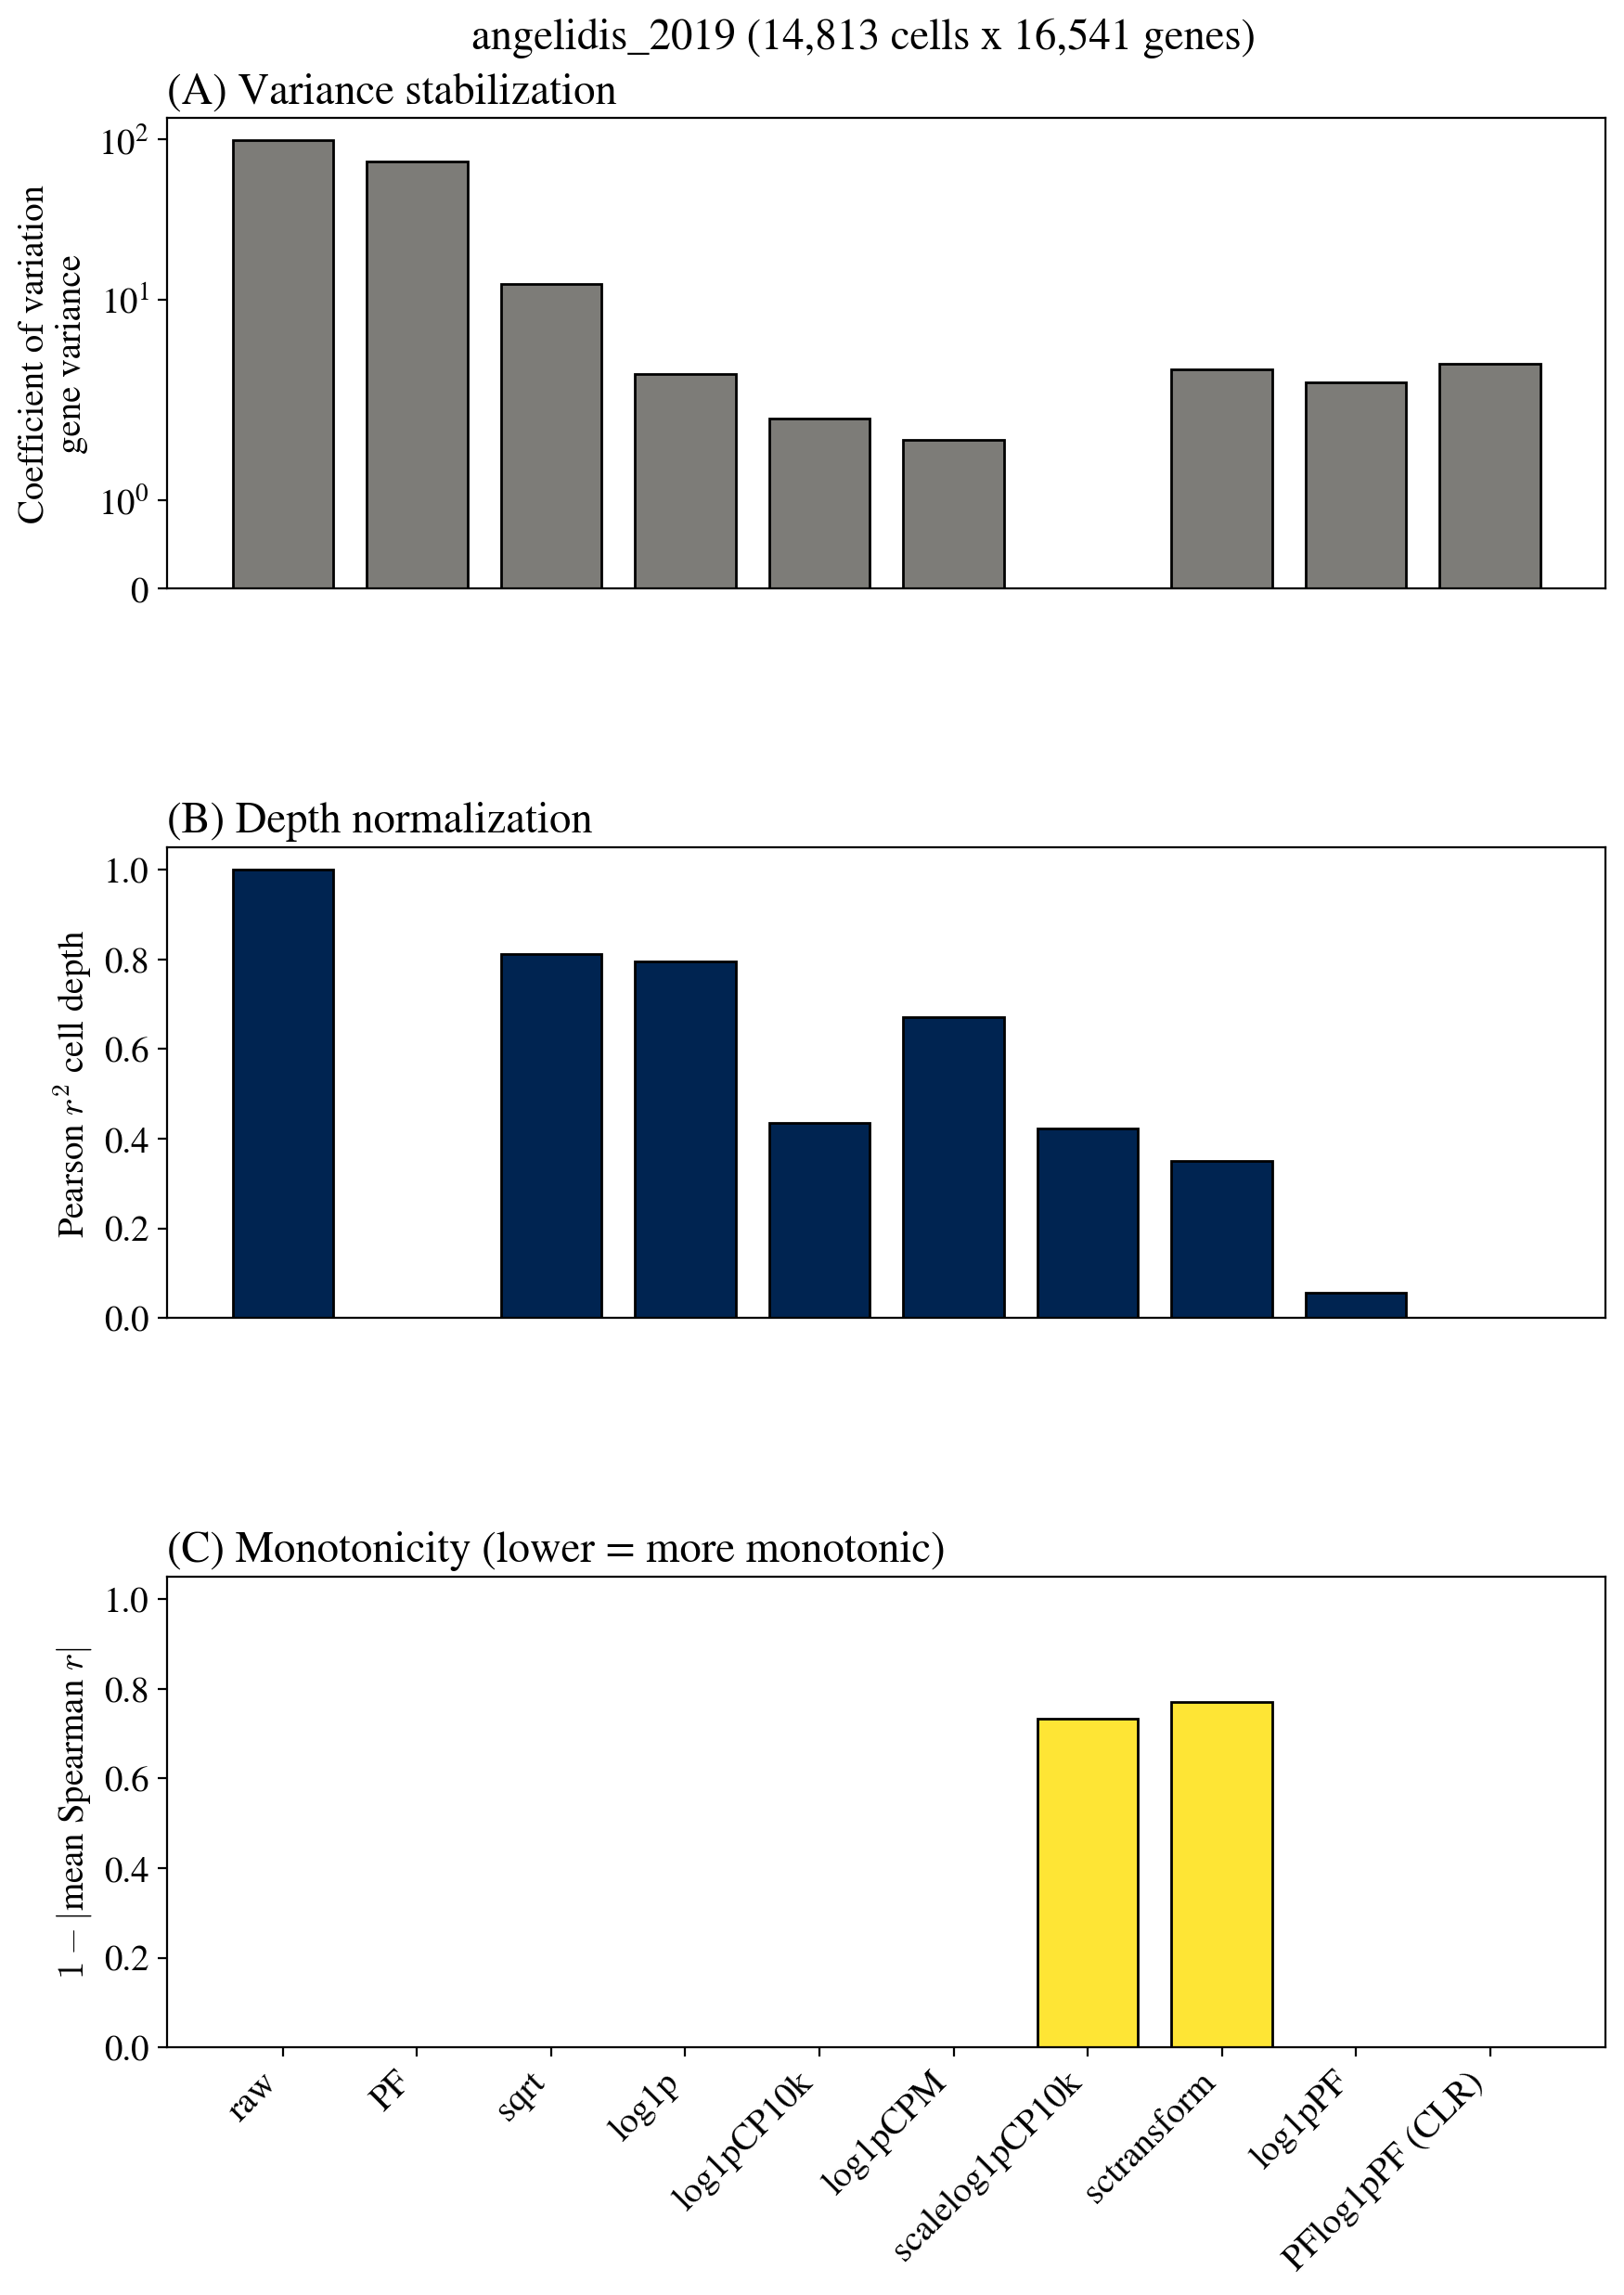
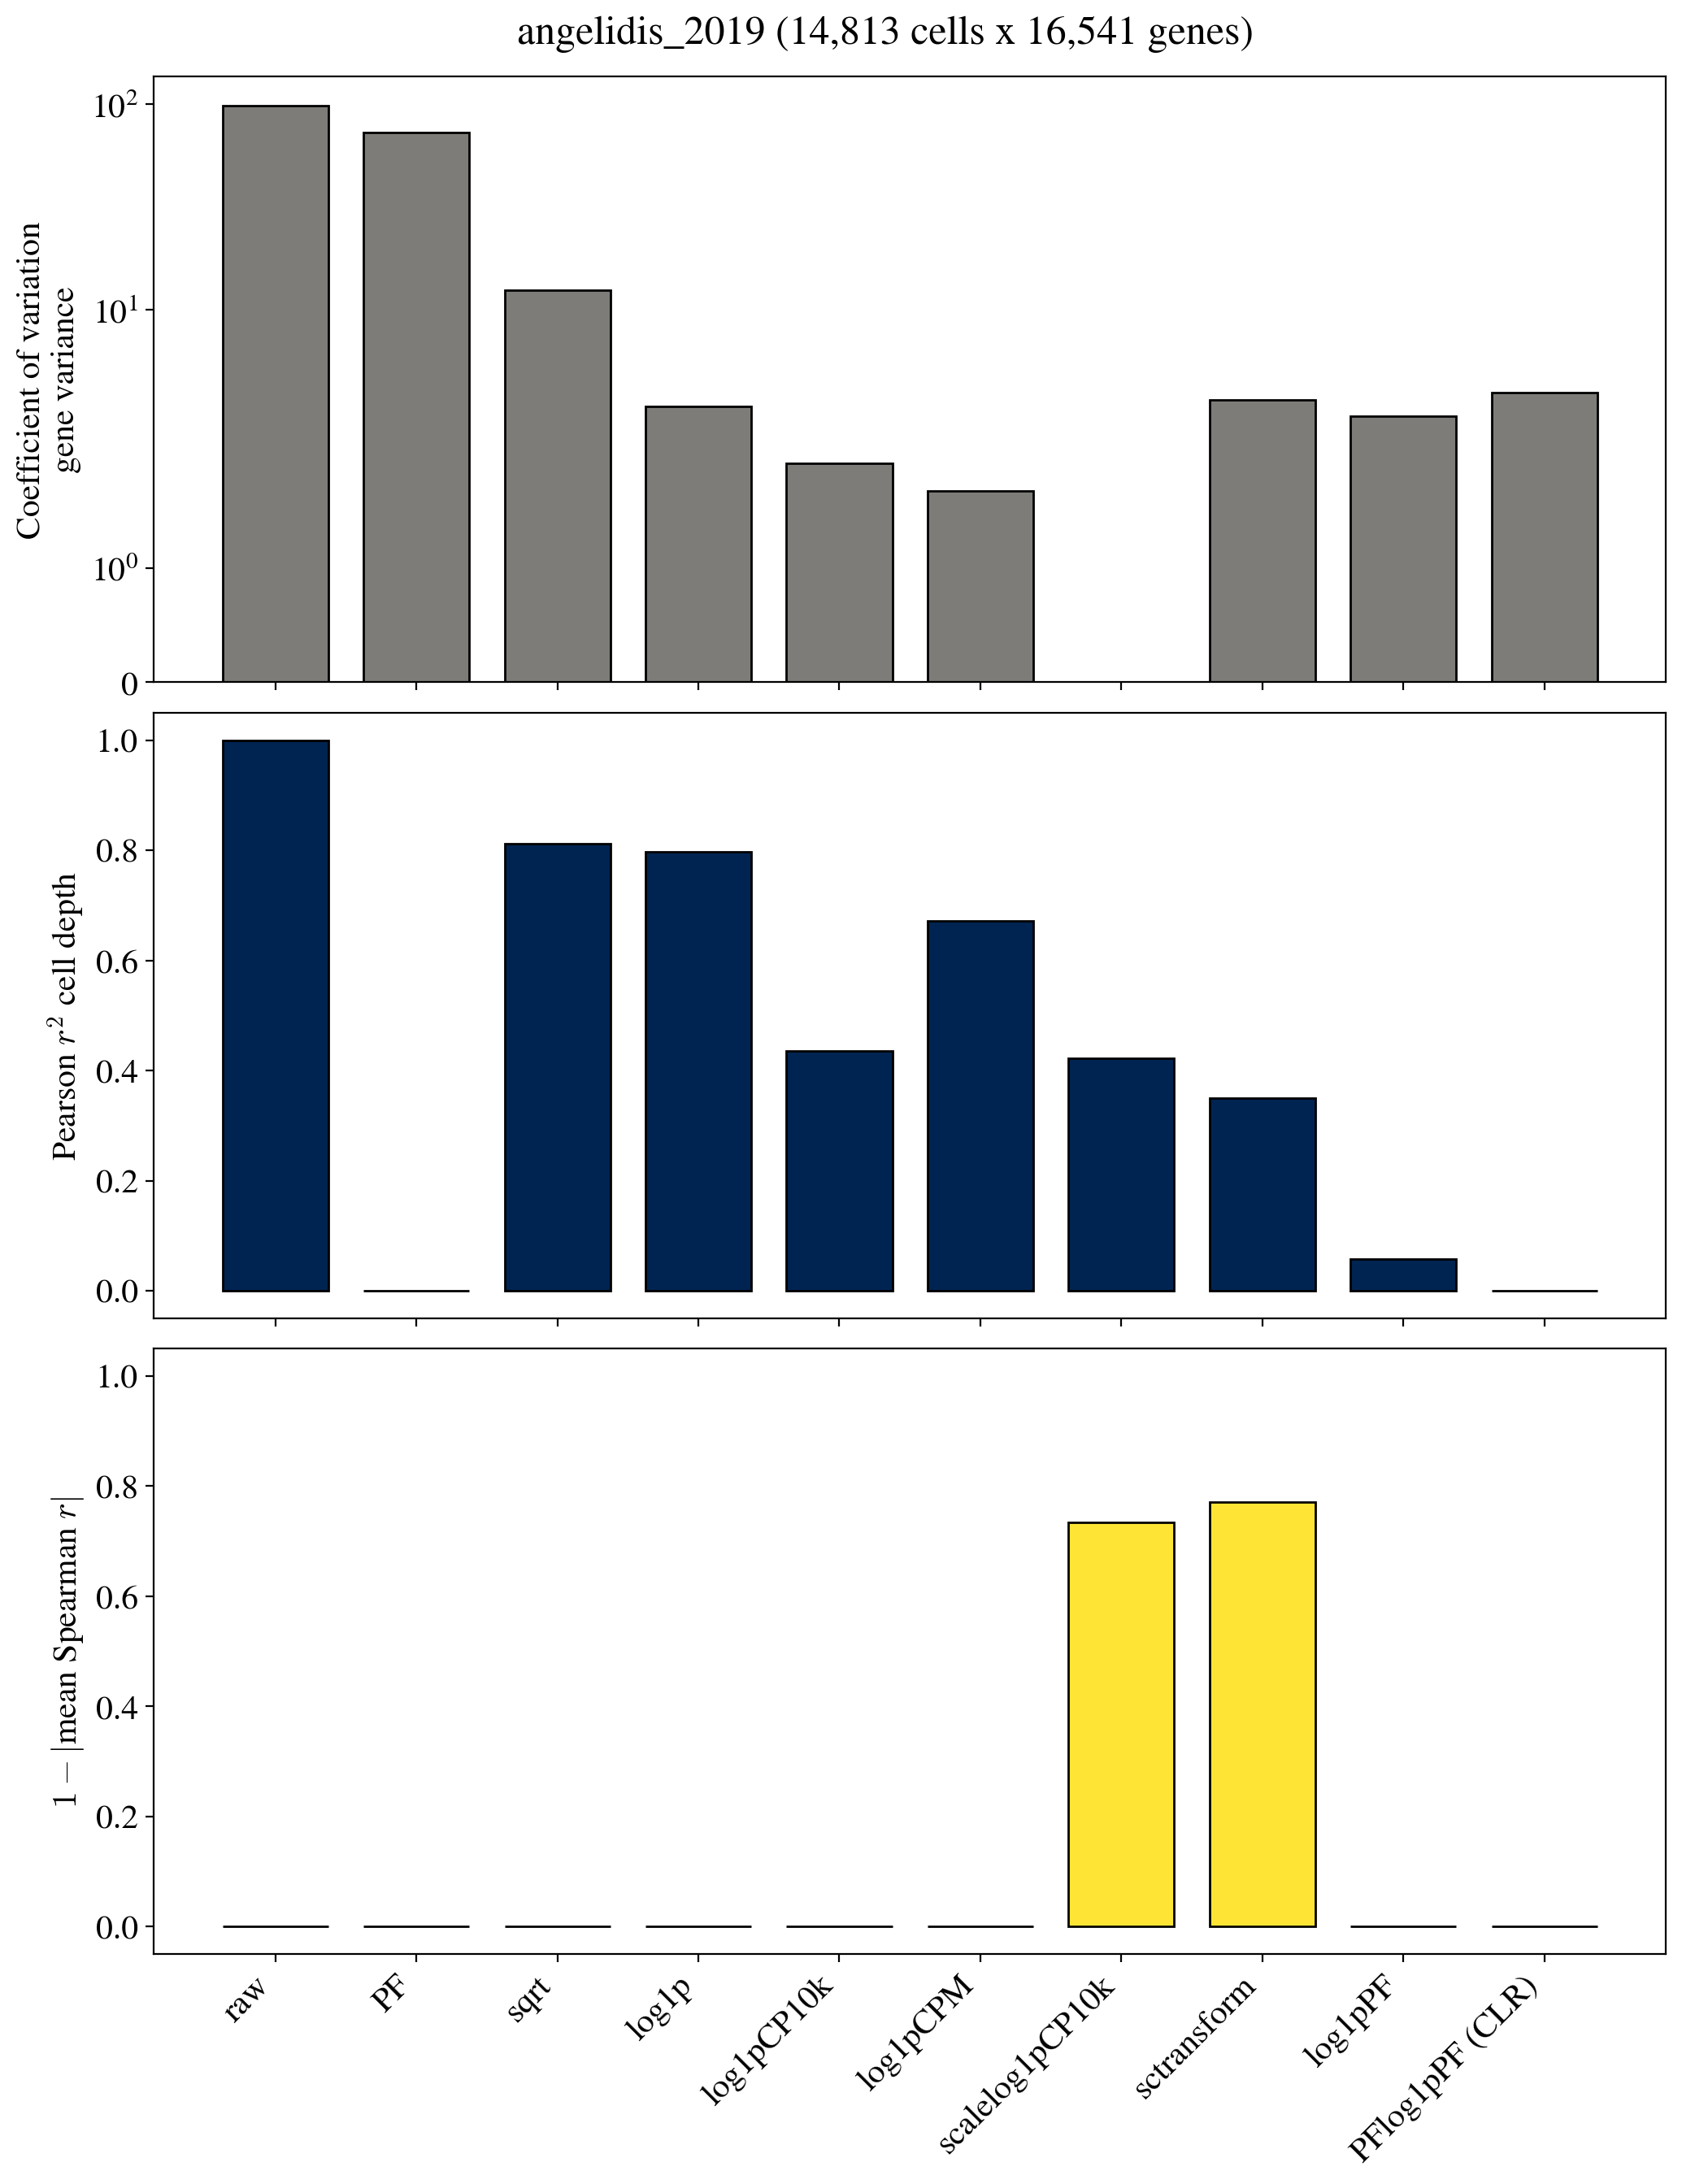
restyle plot_bar.py to match plot_summary.py layout
Per Sina's feedback: stack the three panels with shared x-axis (no hspace),
drop the (A)/(B)/(C) panel titles (those will live in the figure caption),
and bump figsize to (12, 15) so the angelidis bar plot ends up the same
vertical height as the across-dataset summary boxplot. Captions can place
them side-by-side without one squishing the other.

diff --git a/scripts/plot_bar.py b/scripts/plot_bar.py
@@ -2,10 +2,13 @@
 """3-panel bar plot of per-method metrics for a single dataset.
 
 Reads the per-dataset metrics JSON produced by metrics_methods_*.py and
-draws three bar panels:
-    A) Coefficient of variation of gene variances  (variance stabilization)
-    B) Pearson r2 of cell depth vs raw             (depth normalization)
-    C) Mean per-cell Spearman r vs raw             (monotonicity)
+draws three stacked bar panels with a shared x-axis:
+    cov_gene  (variance stabilization)
+    r2_depth  (depth normalization)
+    1 - |mean per-cell Spearman r|  (monotonicity)
+
+Panel labels and titles are intentionally omitted so the figure stacks
+cleanly next to plot_summary.py output at the same vertical size.
 
 Usage:
     python plot_bar.py <metrics.json> <out_prefix>
@@ -17,7 +20,7 @@ import sys
 import matplotlib
 matplotlib.rcParams["mathtext.fontset"] = "cm"
 matplotlib.rcParams["font.family"] = "STIXGeneral"
-matplotlib.rcParams["font.size"] = 14
+matplotlib.rcParams["font.size"] = 15
 import matplotlib.pyplot as plt
 import numpy as np
 
@@ -56,26 +59,30 @@ def main(metrics_json, out_prefix):
     mono_metric = 1 - np.abs(r_mono)
 
     x_idx = np.arange(len(METHODS))
-    fig, axs = plt.subplots(nrows=3, figsize=(10, 4.5 * 3))
+    # figsize + hspace match plot_summary.py so the two figures sit at the
+    # same vertical height when placed side-by-side in the manuscript.
+    fig, axs = plt.subplots(nrows=3, figsize=(12, 5 * 3))
     title = f"{ds} ({ncells:,} cells x {ngenes:,} genes)" if isinstance(ncells, int) else str(ds)
-    fig.suptitle(title, y=0.92)
-    fig.subplots_adjust(hspace=0.55)
+    fig.suptitle(title, y=0.905)
+    fig.subplots_adjust(hspace=0.05)
 
     ax = axs[0]
     ax.bar(x_idx, cov_gene, width=0.75, facecolor=COLORS["gene"], edgecolor="k")
-    ax.set(yscale="symlog", ylabel="Coefficient of variation\ngene variance", xticks=[])
-    ax.set_title("(A) Variance stabilization", loc="left")
+    ax.set(yscale="symlog", ylabel="Coefficient of variation\ngene variance")
+    ax.set_xticks(x_idx)
+    ax.set_xticklabels([])
 
     ax = axs[1]
     ax.bar(x_idx, r2_depth, width=0.75, facecolor=COLORS["cell"], edgecolor="k")
-    ax.set(ylabel="Pearson $r^2$ cell depth", ylim=(0, 1.05), xticks=[])
-    ax.set_title("(B) Depth normalization", loc="left")
+    ax.set(ylabel="Pearson $r^2$ cell depth", ylim=(-0.05, 1.05))
+    ax.set_xticks(x_idx)
+    ax.set_xticklabels([])
 
     ax = axs[2]
     ax.bar(x_idx, mono_metric, width=0.75, facecolor=COLORS["mono"], edgecolor="k")
-    ax.set(ylabel=r"$1 - |$mean Spearman $r|$", ylim=(0, 1.05), xticks=x_idx)
+    ax.set(ylabel=r"$1 - |$mean Spearman $r|$", ylim=(-0.05, 1.05))
+    ax.set_xticks(x_idx)
     ax.set_xticklabels(METHODS, rotation=45, ha="right")
-    ax.set_title("(C) Monotonicity (lower = more monotonic)", loc="left")
 
     fig.savefig(f"{out_prefix}.pdf", facecolor="white", bbox_inches="tight", dpi=300)
     fig.savefig(f"{out_prefix}.png", facecolor="white", bbox_inches="tight", dpi=200)